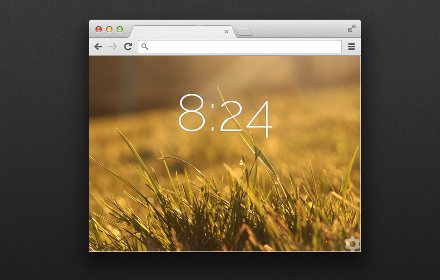
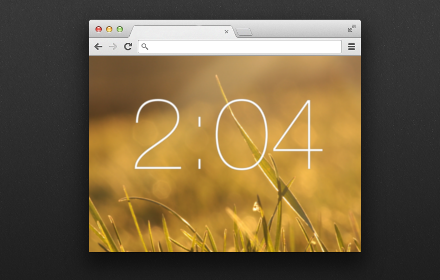
Update font

diff --git a/app/css/style.css b/app/css/style.css
@@ -1,8 +1,12 @@
 @font-face {
-  font-family: 'Raleway';
+  font-family: 'time';
   font-style: normal;
   font-weight: 200;
-  src: local('Raleway ExtraLight'), local('Raleway-ExtraLight'), url("../fonts/railway.woff") format('woff');
+  src: local('Helvetica Neue'), local('Helvetica-Neue'), url("../fonts/helvetica-neue.woff") format('woff');
+  font-smoothing: antialiased;
+  text-rendering: optimizeLegibility;
+  -webkit-font-smoothing: antialiased;
+  -moz-osx-font-smoothing: grayscale;
 }
 * {
   margin: 0;
@@ -18,8 +22,7 @@ body {
   position: fixed;
   width: 100%;
   height: 100%;
-  font-family: 'Raleway', sans-serif;
-  font-weight: 200;
+  font-family: 'time', sans-serif;
   font-size: 18px;
   overflow-x: hidden;
   color: #262626;

diff --git a/app/css/font.css b/app/css/font.css
@@ -1,6 +1,10 @@
 @font-face {
-  font-family: 'Raleway';
+  font-family: 'time';
   font-style: normal;
   font-weight: 200;
-  src: local('Raleway ExtraLight'), local('Raleway-ExtraLight'), url("../fonts/railway.woff") format('woff');
+  src: local('Helvetica Neue'), local('Helvetica-Neue'), url("../fonts/helvetica-neue.woff") format('woff');
+  font-smoothing: antialiased;
+  text-rendering: optimizeLegibility;
+  -webkit-font-smoothing: antialiased;
+  -moz-osx-font-smoothing: grayscale;
 }
